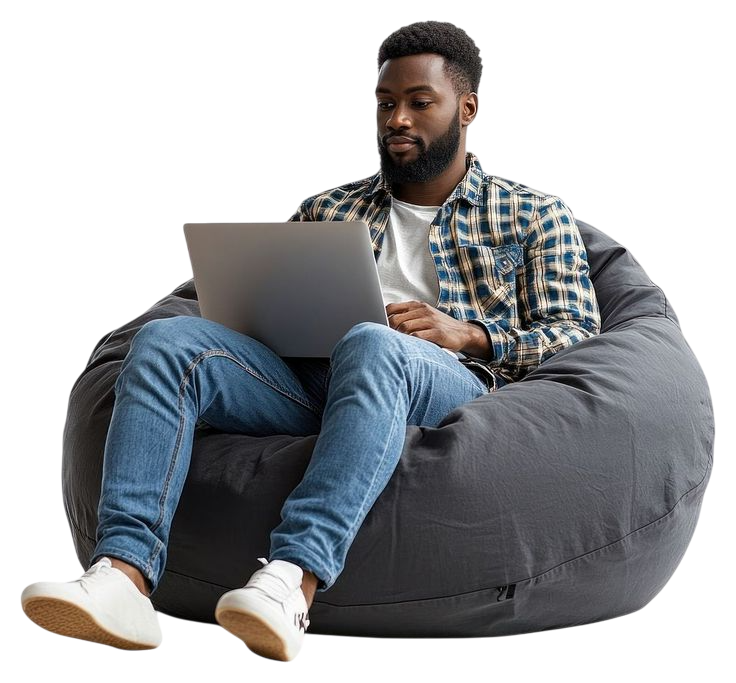
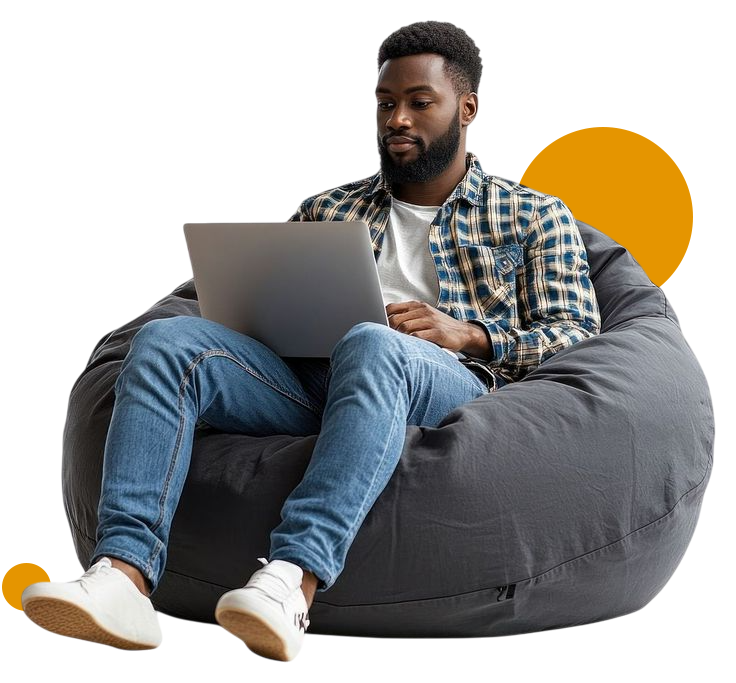
merged the design

Changed region(s): [[0.6875, 0.1845, 0.9688, 0.4305], [0.0, 0.7994, 0.0625, 0.8917]]

diff --git a/index.html b/index.html
@@ -59,6 +59,43 @@
         </div>
       </nav>
 
+      <!-- HEADER-HERO -->
+      <div class="hero">
+        <p class="hero__content-header">Digital Agency</p>
+        <div class="hero__content">
+          <p class="hero__content-title">
+            Enhancing Enterprises <br />
+            <span style="white-space: nowrap">
+              and Shaping <span class="highlighted-keyword">Digital</span>
+            </span>
+            Experiences
+          </p>
+          <p class="hero__content-description">
+            We build digital solutions that help businesses scale, adapt, and
+            thrive in the evolving digital economy, through smart designs,
+            scalable systems, and future-ready experiences.
+          </p>
+        </div>
+        <p class="hero__content-btn">
+          <a href="#" class="hero-cta__filled">Lets Talk</a>
+          <a href="#" class="hero-cta__outlined"> See Our Work </a>
+        </p>
+
+        <div class="hero__visual">
+          <figure class="hero__visual-image">
+            <img
+              src="./Assets/hero-visual-alt.png"
+              width="736"
+              height="683"
+              alt="hero-visual"
+              loading="lazy"
+            />
+
+            <figcaption class="offscreen">hero-visual</figcaption>
+          </figure>
+        </div>
+      </div>
+
       <div class="divider"></div>
       <!-- TOOGLE-MENU -->
       <div class="toogle-menu">
@@ -196,9 +233,6 @@
           <p class="toggle-footer">Privacy Policy</p>
         </div>
       </div>
-
-      <!-- HERO-SECTION -->
-       
     </section>
 
     <!-- SERVICES SECTION -->
@@ -326,8 +360,8 @@
         <h3 class="about__title">About Us</h3>
         <h2 class="about__subtitle">Meet the Minds Behind the Innovation</h2>
         <p class="about__description">
-        Our Philosophy is simple, hire great people and give them the resources
-        and support to do their work
+          Our Philosophy is simple, hire great people and give them the
+          resources and support to do their work
         </p>
       </div>
 
@@ -348,7 +382,10 @@
 
         <div class="about__card-description">
           <p class="about__card-description-name">John Lewis</p>
-          <p class="about__card-description-position">Co-Founder, <span class="about__card-description-position-color">Code</span></p>
+          <p class="about__card-description-position">
+            Co-Founder,
+            <span class="about__card-description-position-color">Code</span>
+          </p>
         </div>
 
         <div class="about__card-visual">
@@ -367,7 +404,10 @@
 
         <div class="about__card-description">
           <p class="about__card-description-name">John Lewis</p>
-          <p class="about__card-description-position">Co-Founder, <span class="about__card-description-position-color">Code</span></p>
+          <p class="about__card-description-position">
+            Co-Founder,
+            <span class="about__card-description-position-color">Code</span>
+          </p>
         </div>
 
         <div class="about__card-visual">
@@ -386,10 +426,11 @@
 
         <div class="about__card-description">
           <p class="about__card-description-name">John Lewis</p>
-          <p class="about__card-description-position">Co-Founder, <span class="about__card-description-position-color">Code</span></p>
+          <p class="about__card-description-position">
+            Co-Founder,
+            <span class="about__card-description-position-color">Code</span>
+          </p>
         </div>
-
-
       </div>
     </section>
 
@@ -418,7 +459,13 @@
     <!-- FOOTER SECTION -->
     <footer class="footer">
       <figure class="footer__logo">
-        <img src="/Assets/Logo_CODE_Footer.png" alt="" width="96" height="53" loading="lazy" />
+        <img
+          src="/Assets/Logo_CODE_Footer.png"
+          alt=""
+          width="96"
+          height="53"
+          loading="lazy"
+        />
         <figcaption class="offscreen">CODE-Logo</figcaption>
       </figure>
 
@@ -432,35 +479,60 @@
       <div class="footer__icons">
         <figure class="footer__icon">
           <a href="#" class="footer__icon-link"
-            ><img src="/Assets/icon_social_linkedin.svg" alt="" width="22" height="" loading="lazy"
+            ><img
+              src="/Assets/icon_social_linkedin.svg"
+              alt=""
+              width="22"
+              height=""
+              loading="lazy"
           /></a>
           <figcaption class="offscreen">linked Icon</figcaption>
         </figure>
 
         <figure class="footer__icon">
           <a href="#" class="footer__icon-link"
-            ><img src="/Assets/icon_social_facebook.svg" alt="" width="22" height="" loading="lazy"
+            ><img
+              src="/Assets/icon_social_facebook.svg"
+              alt=""
+              width="22"
+              height=""
+              loading="lazy"
           /></a>
           <figcaption class="offscreen">linked Icon</figcaption>
         </figure>
 
         <figure class="footer__icon">
           <a href="#" class="footer__icon-link"
-            ><img src="/Assets/icon_social_instagram.svg" alt="" width="22" height="" loading="lazy"
+            ><img
+              src="/Assets/icon_social_instagram.svg"
+              alt=""
+              width="22"
+              height=""
+              loading="lazy"
           /></a>
           <figcaption class="offscreen">linked Icon</figcaption>
         </figure>
 
         <figure class="footer__icon">
           <a href="#" class="footer__icon-link"
-            ><img src="/Assets/icon_social_behance.svg" alt="" width="22" height="" loading="lazy"
+            ><img
+              src="/Assets/icon_social_behance.svg"
+              alt=""
+              width="22"
+              height=""
+              loading="lazy"
           /></a>
           <figcaption class="offscreen">linked Icon</figcaption>
         </figure>
 
         <figure class="footer__icon">
           <a href="#" class="footer__icon-link"
-            ><img src="/Assets/icon_social_dribble.svg" alt="" width="22" height="" loading="lazy"
+            ><img
+              src="/Assets/icon_social_dribble.svg"
+              alt=""
+              width="22"
+              height=""
+              loading="lazy"
           /></a>
           <figcaption class="offscreen">linked Icon</figcaption>
         </figure>

diff --git a/Assets/style.css b/Assets/style.css
@@ -19,13 +19,15 @@ img {
   --CLR-CYAN: #024846;
   --CRL-TANGERINE: #e59500;
   --CRL-WHITE: #ffffff;
+  --HERO-HEADER-CLR: #93bcbb;
 
   /* GRADIENTS */
 
   /* TYPOGRAPHY */
   --FF1: "Poppins", serif;
 
-  --TITLE-MOB: 600 2rem/40px var(--FF1);
+  /* TYPOGRAPHY MOB */
+  --TITLE-MOB: normal 1.5625rem/125% var(--FF1);
   --SECTION-TITLE-MOB: 600 1rem/1.5rem var(--FF1);
   --SECTION-SUBTITLE-MOB: normal 1.25rem/1.5rem var(--FF1);
   --DESCRIPTION-MOB: normal 0.75rem/16px var(--FF1);
@@ -34,6 +36,9 @@ img {
   --BUTTON-MOB: normal 1rem/1.5rem var(--FF1);
   --CTA-BUTTON-MOB: normal 0.5625rem/1.5rem var(--FF1);
   --BTN-SHADOW: 0rem 0.125rem 0.1875rem 0.0187rem #00000051;
+  --CONTENT-HEADER: normal 0.375rem var(--FF1);
+  --HIGHLIGHTED-KEYWORD: bold 1.25rem/1.4563rem var(--FF1);
+  --DESCRIPTION-MOB-H: normal 0.75rem/130% var(--FF1);
 
   /* TYPOGRAPHY DSK */
   --NAV-LINKS: normal 1.25rem var(--FF1);
@@ -87,7 +92,6 @@ a:any-link {
   display: flex;
   flex-flow: column;
   position: relative;
-  height: 568px;
   width: 100%;
   max-height: 548px;
   background-image: url(./Assets/hero_background.png);
@@ -228,6 +232,91 @@ a:any-link {
 }
 
 /*|| HERO-SECTION  */
+
+.hero {
+  display: flex;
+  flex-flow: column;
+  align-items: center;
+  margin: 2rem 1rem 1.0625rem 1rem;
+}
+
+.hero__content {
+  display: flex;
+  flex-flow: column;
+  align-items: center;
+  margin: 1rem 0;
+  width: 340px;
+}
+
+.hero__content-header {
+  display: flex;
+  align-items: center;
+  width: 73px;
+  height: 14px;
+  padding: 0.125rem 0.8125rem;
+  border-radius: 54px;
+  font: var(--CONTENT-HEADER);
+  background-color: var(--HERO-HEADER-CLR);
+  color: var(--CRL-WHITE);
+  margin-bottom: 0.375rem;
+}
+.hero__content-title {
+  display: flex;
+  flex-flow: column;
+  align-items: center;
+  width: 380px;
+  font: var(--TITLE-MOB);
+  margin-bottom: 0.75rem;
+  color: var(--CLR-CYAN);
+  text-align: center;
+}
+.highlighted-keyword{
+  display: inline-block;
+  font: var(--HIGHLIGHTED-KEYWORD);
+  color: var(--CRL-WHITE);
+  background-color: var(--CRL-TANGERINE);
+  padding-left: .25rem;
+  padding-right: 4px;
+  border-radius: 3px;
+  transform: rotate(-10deg);
+}
+.hero__content-description {
+  display: flex;
+  align-items: center;
+  text-align: center;
+  font: var(--DESCRIPTION-MOB-H);
+  color: var(--CLR-CYAN);
+}
+.hero__content-btn {
+  display: flex;
+  flex-flow: row;
+  gap: 0.5rem;
+  margin-bottom: 1rem;
+}
+.hero-cta__filled {
+  display: flex;
+  align-items: center;
+  font: var(--BUTTON-MOB);
+  color: var(--CRL-WHITE);
+  background-color: var(--CLR-CYAN);
+  padding: 0.3475rem 0.6956rem;
+  border-radius: 54px;
+}
+.hero-cta__outlined {
+  display: flex;
+  align-items: center;
+  font: var(--BUTTON-MOB);
+  color: var(--CLR-CYAN);
+  border: 1px solid var(--CLR-CYAN);
+  padding: 0.3475rem 0.6956rem;
+  border-radius: 54px;
+}
+
+.hero__visual-image {
+  width: 269px;
+  height: 194px;
+  margin-bottom: 17px;
+}
 
 /* SERVICES */
 .services {
